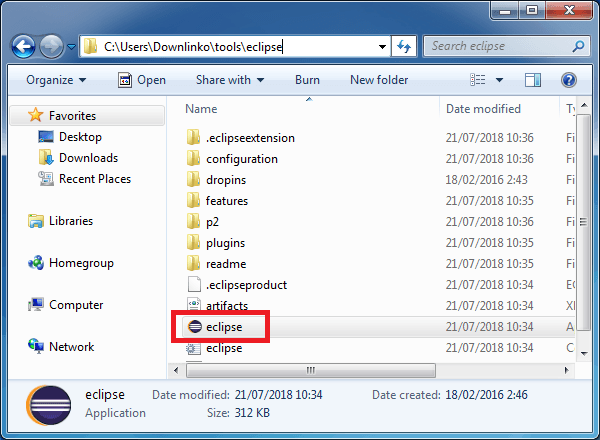
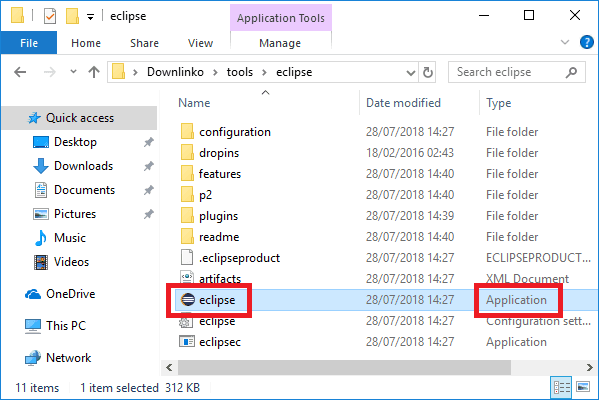
update post

diff --git a/_posts/development/2018-07-21-download-install-eclipse-mars-windows.md b/_posts/development/2018-07-21-download-install-eclipse-mars-windows.md
@@ -85,7 +85,7 @@ Click on `Extract`. This extracts all Eclipse Mars files under `C:\Users\Downlin
 
 To run Eclipse Mars navigate to the `[ECLIPSE_MARS_INSTALL_DIR]` installation directory.
 
-Located the executable file called `eclipse` and double-click on it.
+Located the `application` file called `eclipse` and double-click on it.
 
 <img src="{{ site.url }}/assets/images/posts/development/eclipse/eclipse-mars-executable.png" alt="eclipse mars executable">
 
